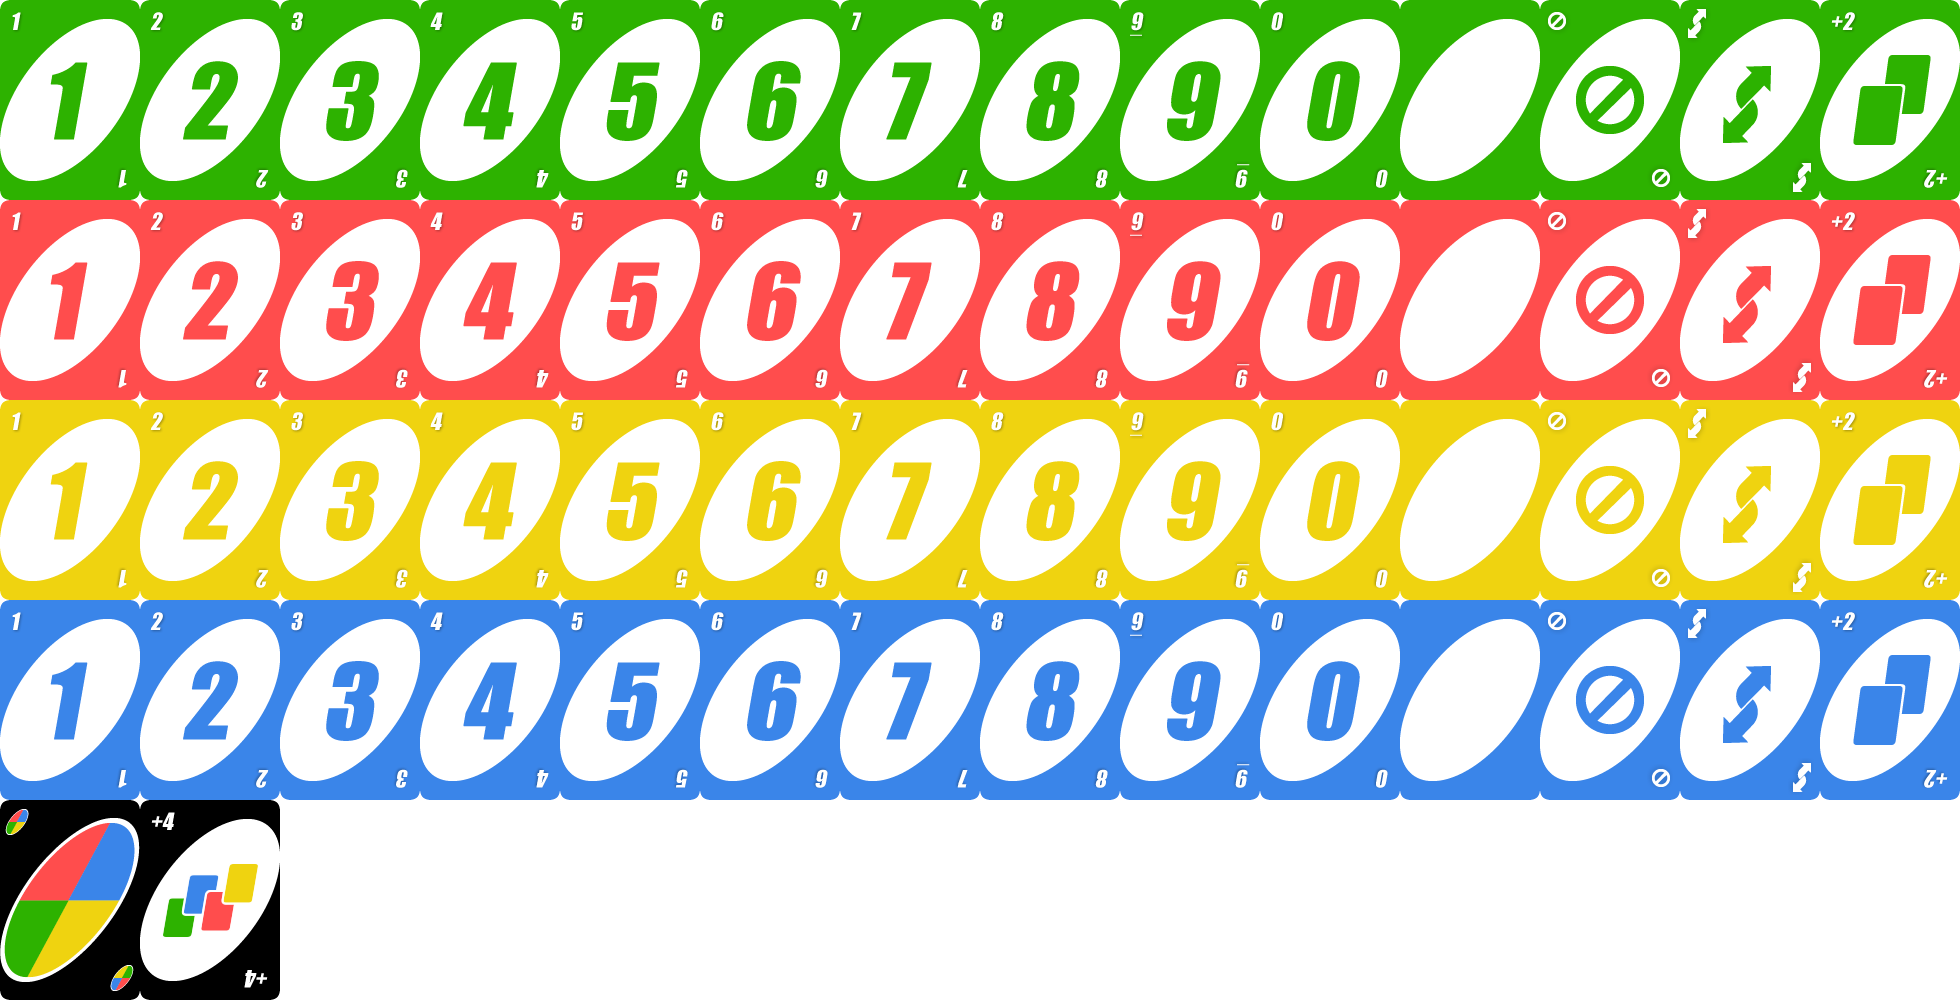
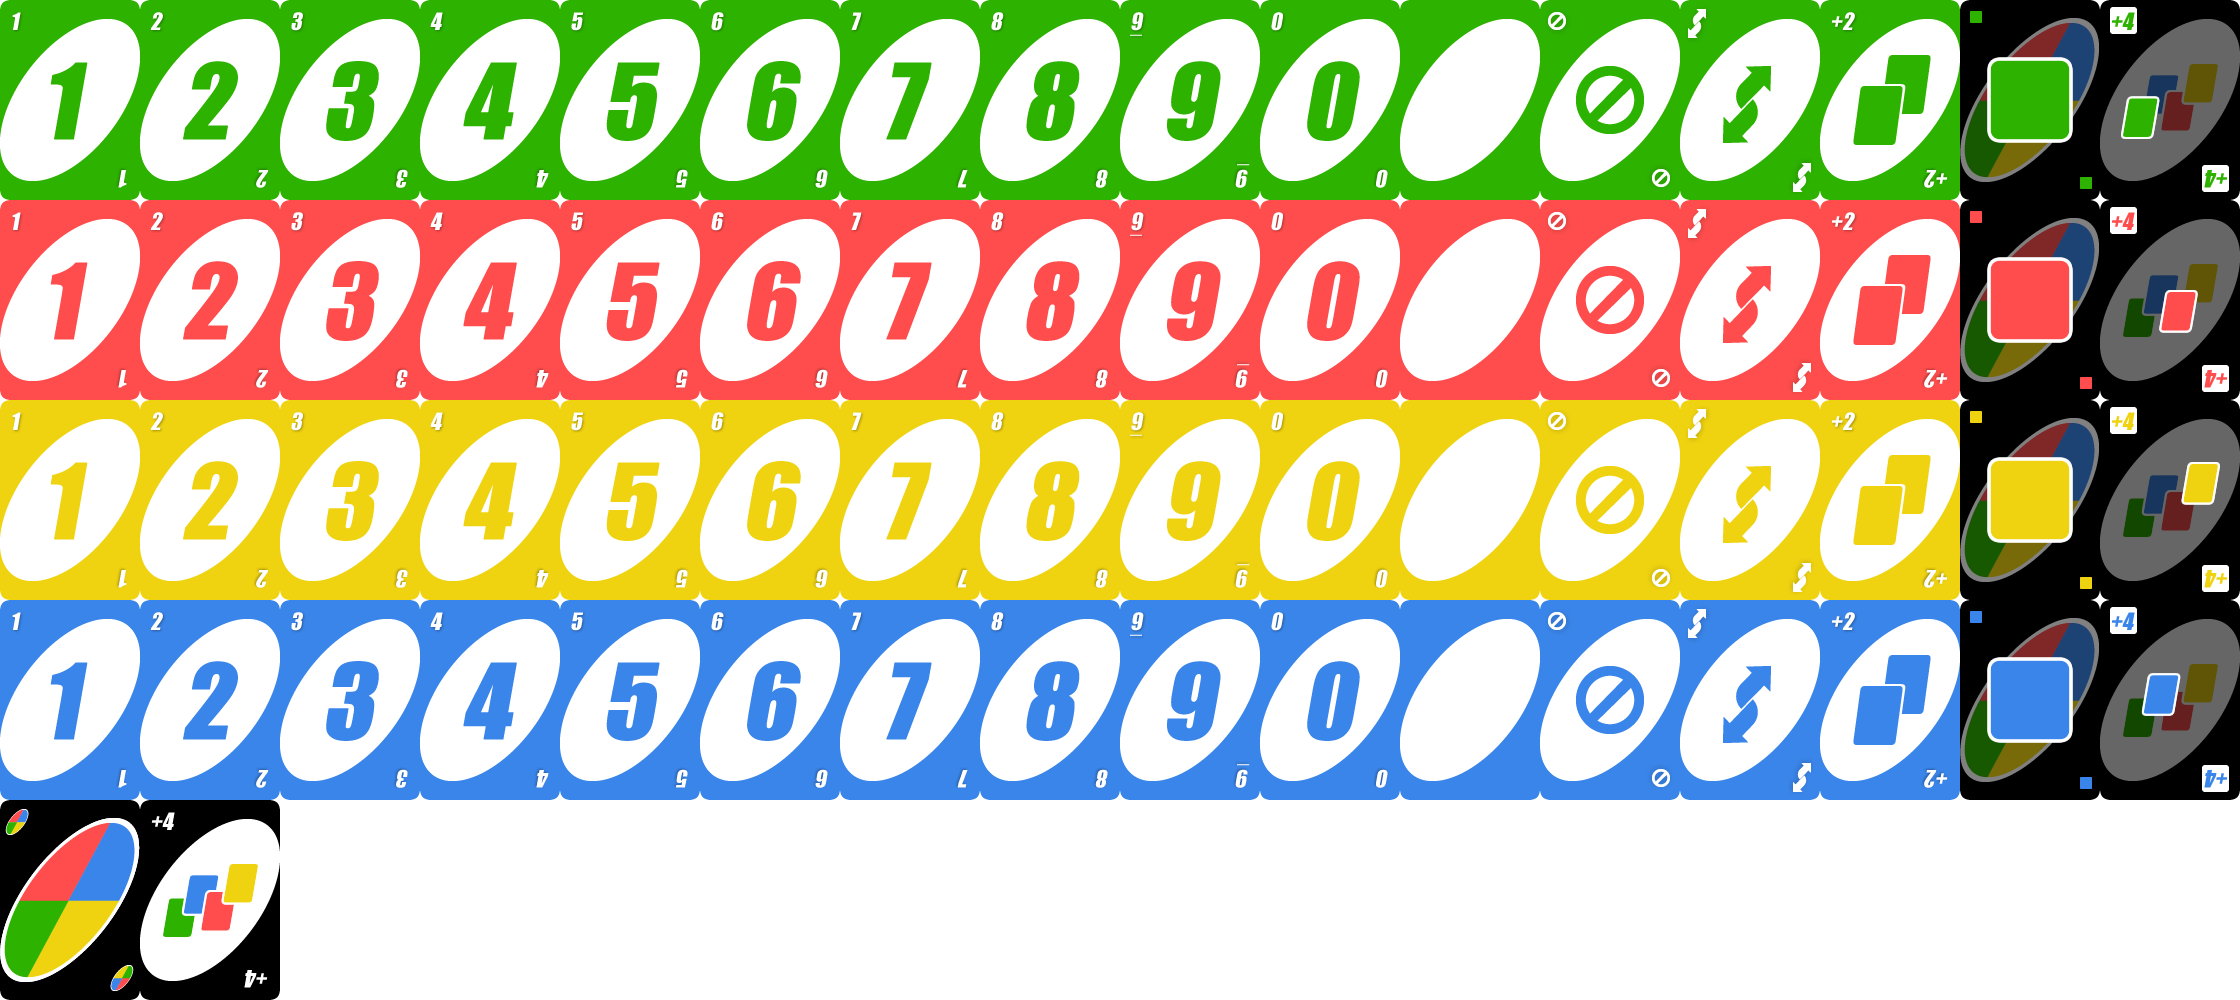
support showing others' played card

diff --git a/public/js/page/game.js b/public/js/page/game.js
@@ -124,6 +124,61 @@
         var socket = this;
         socket.on('/game/start', eh_game_start);
         socket.on('/game/turn', eh_game_turn);
+        socket.on('/game/play', eh_game_play);
+    }
+
+    //清理牌区
+    function card_area_clear()
+    {
+
+        var rmList = [];
+
+        $('.stage-card-area .card-wrapper').css({left: 0, opacity: 0}).each(function()
+        {
+            var s = $(this);
+            rmList.push(s);
+        });
+
+        setTimeout(function()
+        {
+            for (var i in rmList)
+            {
+                rmList[i].remove();
+            }
+
+            rmList = null;
+
+        }, 1000);
+
+    }
+
+    function eh_game_play(data)
+    {
+        //忽略自己的出牌
+        if (data.uid == info.uid)
+            return;
+
+        card_area_clear();
+
+        var stage_width = $('.stage-card-area').width();
+        var start_x = stage_width / 2 - 30 * data.count; 
+
+        for (var i = 0; i < data.count; i++)
+        {
+            (function(i)
+            {
+
+                var card = $('<div class="card-wrapper" data-color="{color}" data-number="{number}"><div class="card card-{color}-{number}"></div></div>'.format(data.card));
+                card.css({left: stage_width, opacity: 0, top: 50});
+                card.appendTo('.stage-card-area');
+
+                setTimeout(function()
+                {
+                    card.css({left: start_x + i * 50, opacity: 1});
+                }, i * 50);
+
+            })(i);
+        }
     }
 
     function eh_game_start(data)
@@ -246,6 +301,8 @@
                     $('<div class="color color-' + colors[k] + '" data-color="' + colors[k] + '"></div>')
                     .click(function()
                     {
+                        selected.find('.card').attr('class', 'card card-' + $(this).attr('data-color') + '-' + number);
+
                         action_playcard($(this).attr('data-color'));
                         $selector.removeClass('show');
                         setTimeout(function()
@@ -287,6 +344,8 @@
                     var start_x = stage_width / 2 - 30 * count; 
 
                     //出牌成功
+                    card_area_clear();
+
                     $('.stage-card-mine .selected').each(function(index)
                     {
                         selected_card_id[$(this).attr('data-cardid')] = true;

diff --git a/public/css/base.css b/public/css/base.css
@@ -770,6 +770,12 @@ a:focus {
 .card-green-plus2 {
   background-position: -1820px 0px;
 }
+.card-green-changecolor {
+  background-position: -1960px 0px;
+}
+.card-green-plus4 {
+  background-position: -2100px 0px;
+}
 .card-red-1 {
   background-position: 0px -200px;
 }
@@ -811,6 +817,12 @@ a:focus {
 }
 .card-red-plus2 {
   background-position: -1820px -200px;
+}
+.card-red-changecolor {
+  background-position: -1960px -200px;
+}
+.card-red-plus4 {
+  background-position: -2100px -200px;
 }
 .card-yello-1 {
   background-position: 0px -400px;
@@ -854,6 +866,12 @@ a:focus {
 .card-yello-plus2 {
   background-position: -1820px -400px;
 }
+.card-yello-changecolor {
+  background-position: -1960px -400px;
+}
+.card-yello-plus4 {
+  background-position: -2100px -400px;
+}
 .card-blue-1 {
   background-position: 0px -600px;
 }
@@ -896,6 +914,12 @@ a:focus {
 .card-blue-plus2 {
   background-position: -1820px -600px;
 }
+.card-blue-changecolor {
+  background-position: -1960px -600px;
+}
+.card-blue-plus4 {
+  background-position: -2100px -600px;
+}
 .card-null-changecolor {
   background-position: 0px -800px;
 }
@@ -915,10 +939,10 @@ a:focus {
 }
 .stage-card-area .card-wrapper {
   position: absolute;
-  -webkit-transition: left 0.5s ease-in-out, top 0.5s ease-in-out;
-  -moz-transition: left 0.5s ease-in-out, top 0.5s ease-in-out;
-  -ie-transition: left 0.5s ease-in-out, top 0.5s ease-in-out;
-  transition: left 0.5s ease-in-out, top 0.5s ease-in-out;
+  -webkit-transition: left 0.5s ease-in-out, top 0.5s ease-in-out, opacity 0.5s ease-in-out;
+  -moz-transition: left 0.5s ease-in-out, top 0.5s ease-in-out, opacity 0.5s ease-in-out;
+  -ie-transition: left 0.5s ease-in-out, top 0.5s ease-in-out, opacity 0.5s ease-in-out;
+  transition: left 0.5s ease-in-out, top 0.5s ease-in-out, opacity 0.5s ease-in-out;
 }
 .stage-card-mine .card-wrapper {
   top: 30px;
